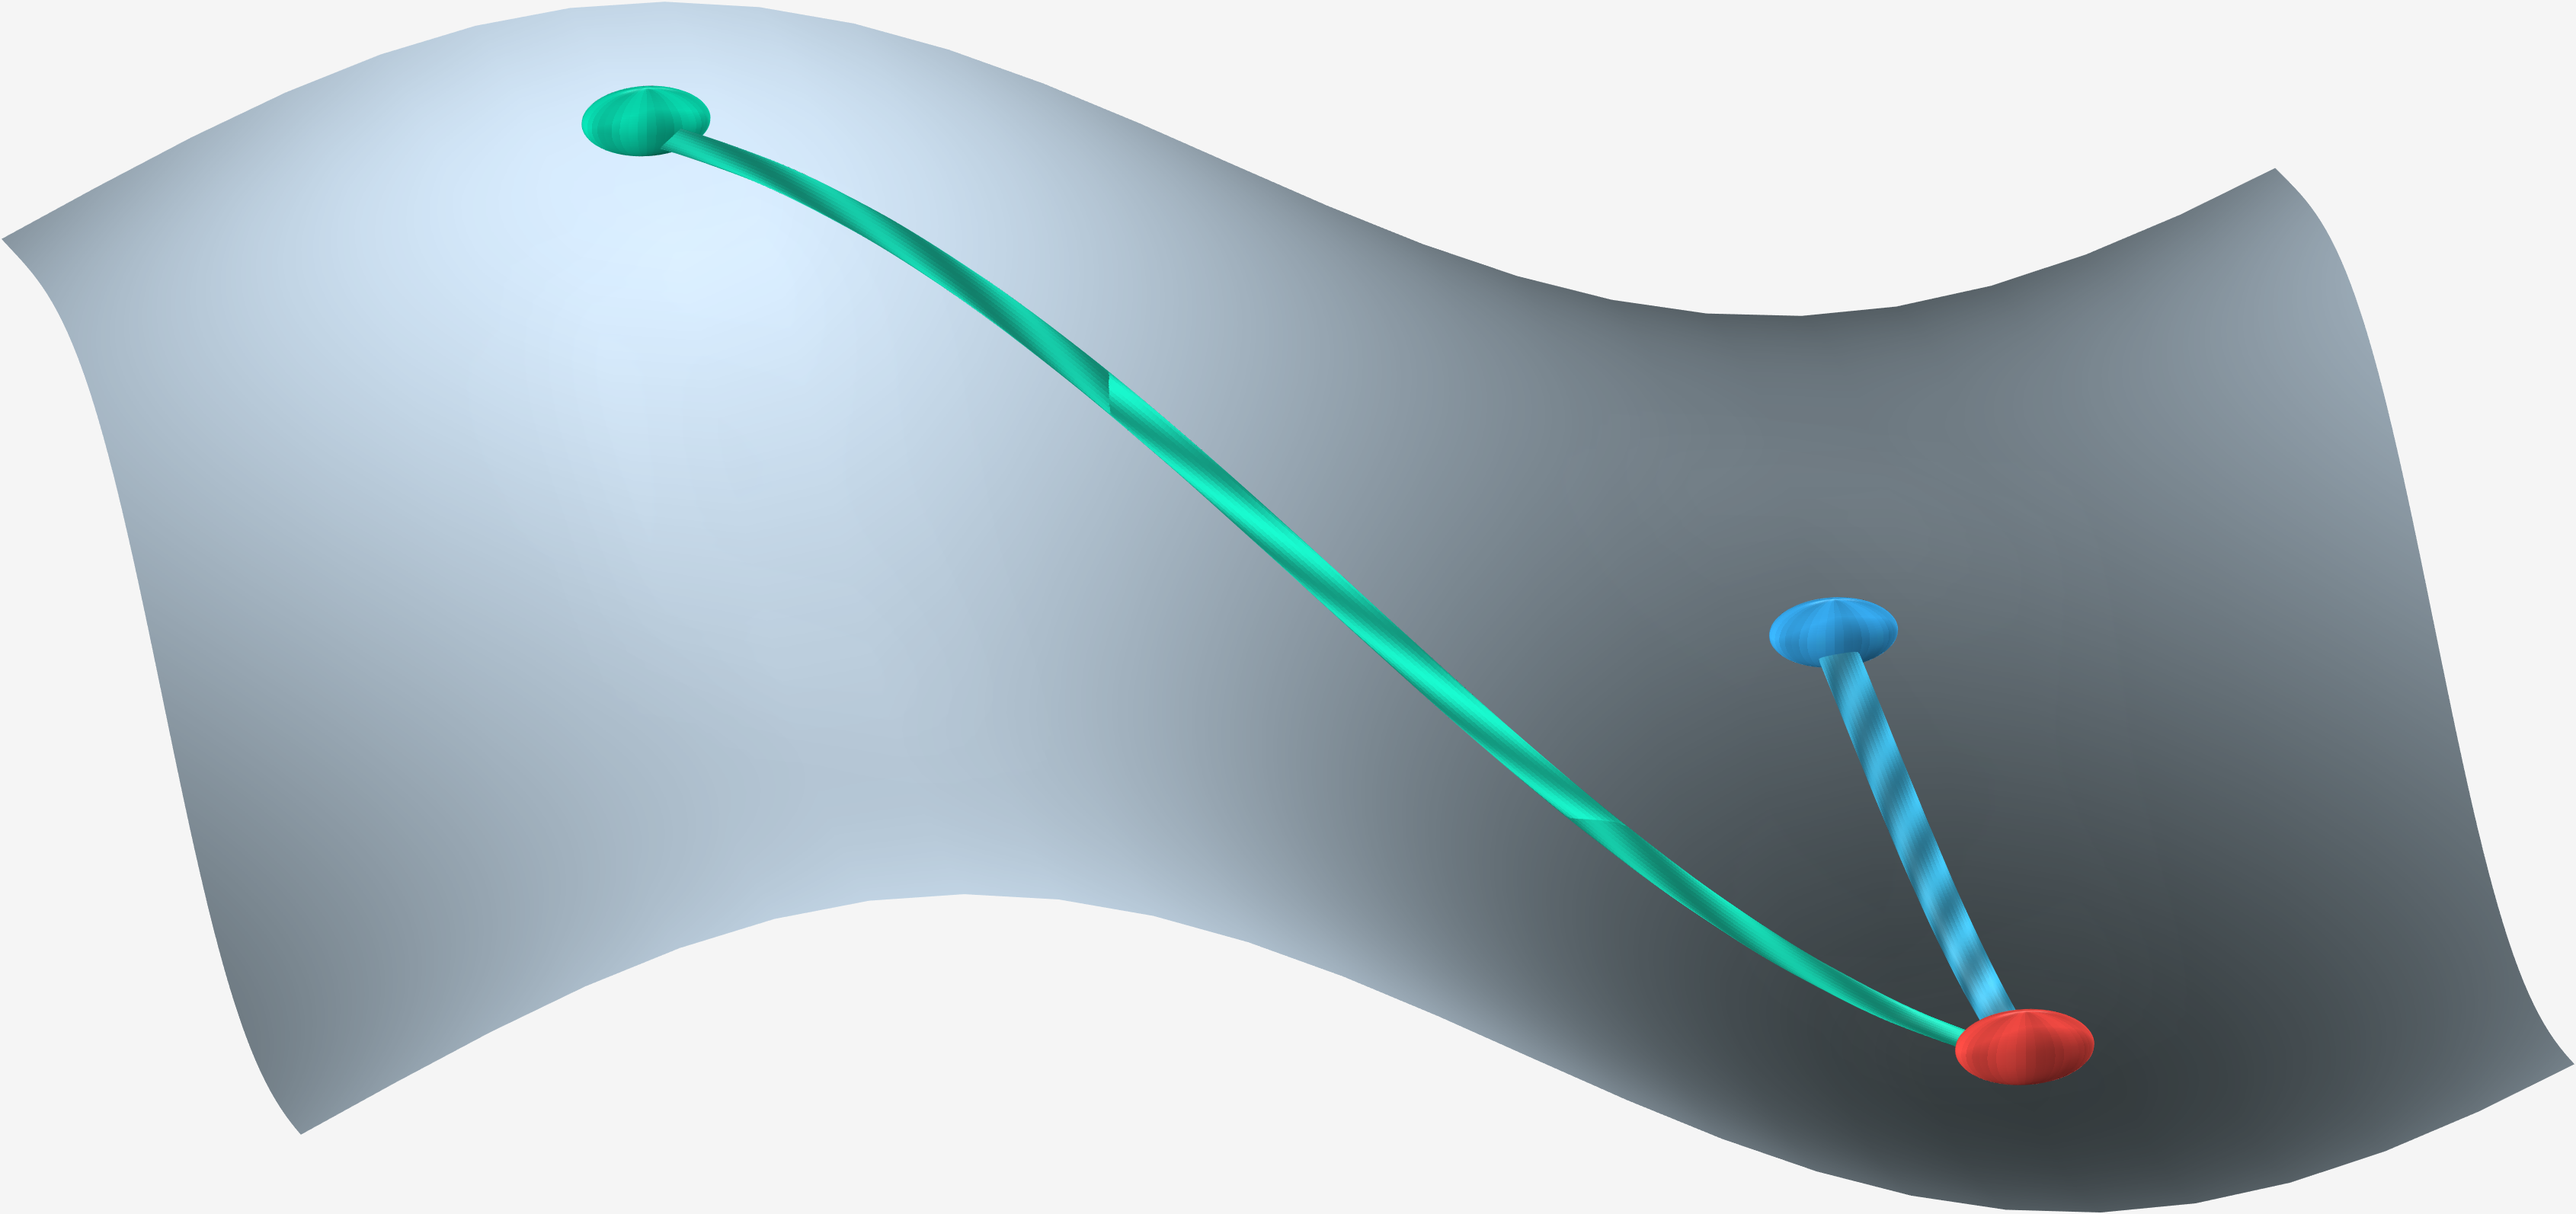
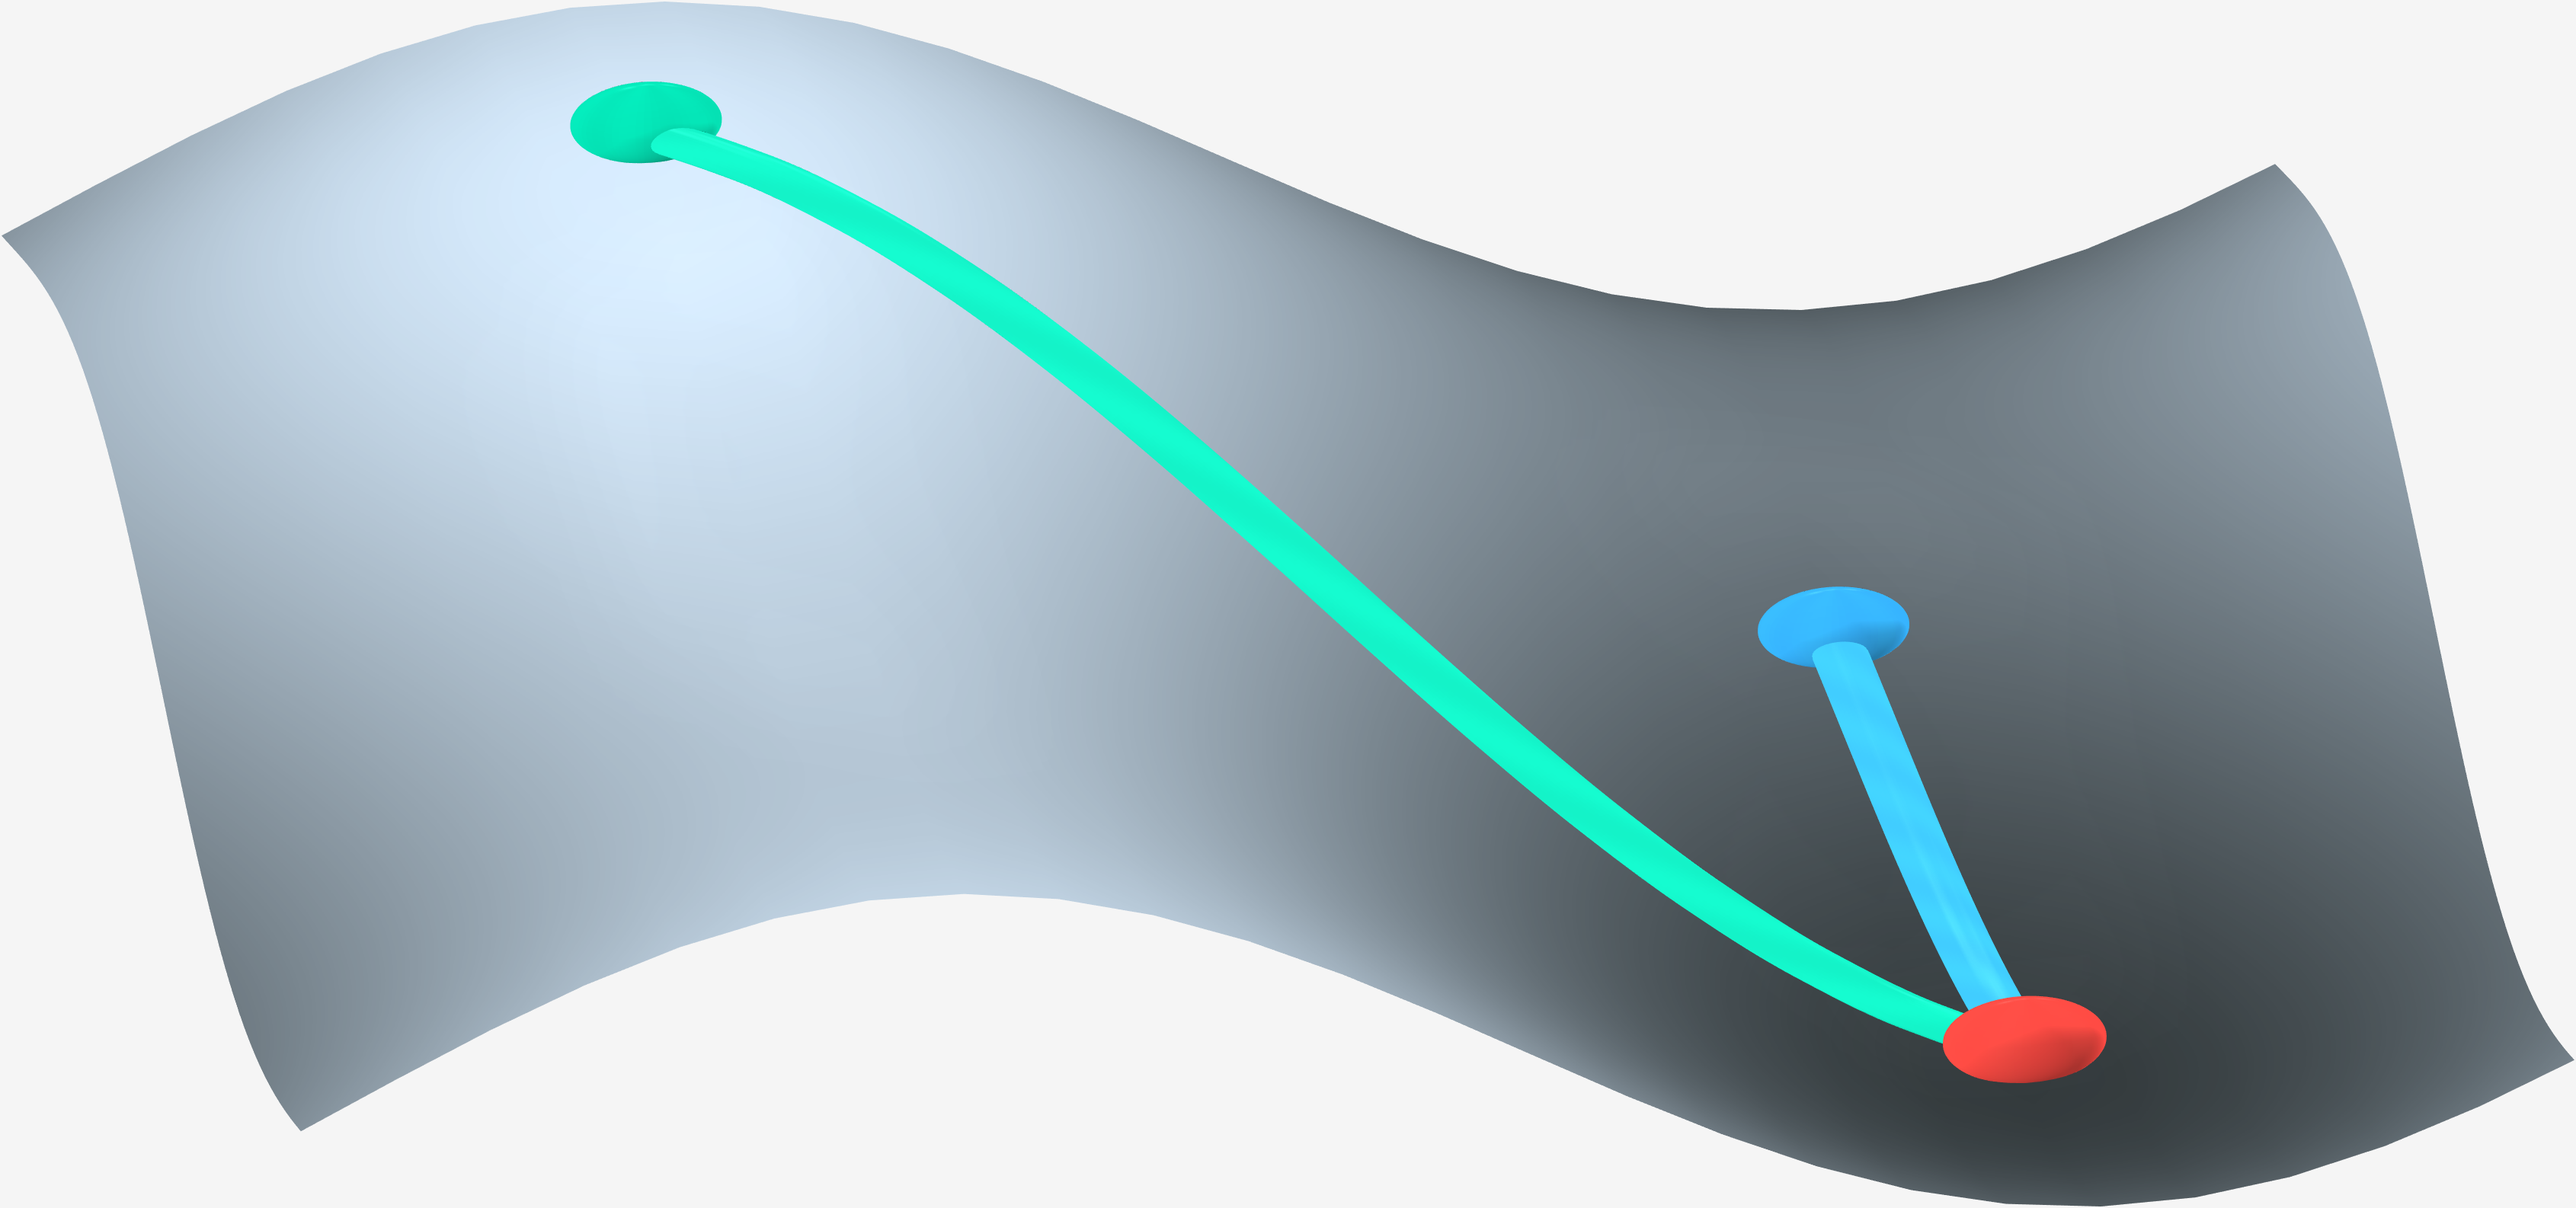
v1

diff --git a/PEL3D.m b/PEL3D.m
@@ -5,7 +5,7 @@ clear;
 random_mode = "load"; % "generate" or "load"
 view_mode = "default"; % "default" or "z_axis"
 z_rotation_deg = -150; % rotate camera around z axis (azimuth)
-topdown_tilt_deg = 25; % increase elevation for a more top-down view
+topdown_tilt_deg = 10; % increase elevation for a more top-down view
 random_param_file = "PEL3D_random_params.mat";
 pad_left = 50;
 pad_right = 25;
@@ -136,8 +136,8 @@ trace_lift = 0.012 * z_span;
 marker_lift = 0.018 * z_span;
 trace_lift = 0.050 * z_span;
 marker_lift = 0.070 * z_span;
-rope_radius = 0.22;
-ball_radius = 0.68;
+rope_radius = 0.30;
+ball_radius = 0.80;
 
 % Create two optimization traces on the surface
 n_trace = 420;
@@ -174,29 +174,52 @@ add_textured_ball(ax, [min_pt(1), min_pt(2), min_z + marker_lift], 1.08 * ball_r
 hold(ax, "off");
 
 function add_textured_rope(ax, path_xyz, radius, base_color)
-% Build a tube around a 3D path with subtle braided texture.
-n_sections = 26;
+% Build a tube around a 3D path with bright, clean texture.
+n_sections = 40;
 theta = linspace(0, 2*pi, n_sections + 1);
 ct = cos(theta);
 st = sin(theta);
 n_pts = size(path_xyz, 1);
 
-dp = gradient(path_xyz);
+dp = zeros(n_pts, 3);
+dp(1, :) = path_xyz(2, :) - path_xyz(1, :);
+dp(end, :) = path_xyz(end, :) - path_xyz(end - 1, :);
+dp(2:end-1, :) = 0.5 * (path_xyz(3:end, :) - path_xyz(1:end-2, :));
 tangent = dp ./ max(vecnorm(dp, 2, 2), 1e-9);
 normal = zeros(n_pts, 3);
 binormal = zeros(n_pts, 3);
-for i = 1:n_pts
-    ref = [0 0 1];
-    if abs(dot(tangent(i, :), ref)) > 0.92
-        ref = [0 1 0];
+
+ref = [0 0 1];
+if abs(dot(tangent(1, :), ref)) > 0.92
+    ref = [0 1 0];
+end
+normal(1, :) = cross(tangent(1, :), ref);
+normal(1, :) = normal(1, :) ./ max(norm(normal(1, :)), 1e-9);
+
+for i = 2:n_pts
+    v_prev = tangent(i - 1, :);
+    v_cur = tangent(i, :);
+    rot_axis = cross(v_prev, v_cur);
+    sin_a = norm(rot_axis);
+    cos_a = max(min(dot(v_prev, v_cur), 1), -1);
+    n_prev = normal(i - 1, :);
+    if sin_a < 1e-10
+        n_rot = n_prev;
+    else
+        k = rot_axis / sin_a;
+        ang = atan2(sin_a, cos_a);
+        n_rot = n_prev * cos(ang) + cross(k, n_prev) * sin(ang) + ...
+            k * dot(k, n_prev) * (1 - cos(ang));
     end
-    n_vec = cross(tangent(i, :), ref);
-    n_vec = n_vec ./ max(norm(n_vec), 1e-9);
-    b_vec = cross(tangent(i, :), n_vec);
+    n_rot = n_rot ./ max(norm(n_rot), 1e-9);
+    b_vec = cross(v_cur, n_rot);
     b_vec = b_vec ./ max(norm(b_vec), 1e-9);
-    normal(i, :) = n_vec;
+    normal(i, :) = cross(b_vec, v_cur);
+    normal(i, :) = normal(i, :) ./ max(norm(normal(i, :)), 1e-9);
     binormal(i, :) = b_vec;
 end
+binormal(1, :) = cross(tangent(1, :), normal(1, :));
+binormal(1, :) = binormal(1, :) ./ max(norm(binormal(1, :)), 1e-9);
 
 X = path_xyz(:, 1) + radius * (normal(:, 1) * ct + binormal(:, 1) * st);
 Y = path_xyz(:, 2) + radius * (normal(:, 2) * ct + binormal(:, 2) * st);
@@ -206,47 +229,49 @@ arc_s = [0; cumsum(vecnorm(diff(path_xyz, 1, 1), 2, 2))];
 arc_s = arc_s / max(arc_s(end), 1e-9);
 twist_u = repmat(arc_s, 1, n_sections + 1);
 twist_v = repmat(theta / (2*pi), n_pts, 1);
-braid = 0.80 + 0.20 * sin(2*pi * (7.0 * twist_u + 2.0 * twist_v));
-round_shade = repmat(0.90 + 0.10 * cos(theta - pi/5), n_pts, 1);
-texture_gain = braid .* round_shade;
+braid = 1.00 + 0.02 * sin(2*pi * (7.0 * twist_u + 2.0 * twist_v));
+texture_gain = max(0.98, braid);
 
 C = zeros(n_pts, n_sections + 1, 3);
 for k = 1:3
-    C(:, :, k) = min(1, max(0, base_color(k) .* texture_gain + 0.04));
+    C(:, :, k) = min(1, max(0, base_color(k) .* texture_gain + 0.02));
 end
 
 surf(ax, X, Y, Z, C, ...
     "FaceColor", "texturemap", ...
     "EdgeColor", "none", ...
     "FaceLighting", "gouraud", ...
-    "SpecularStrength", 0.12, ...
-    "DiffuseStrength", 0.84, ...
-    "AmbientStrength", 0.40);
+    "SpecularStrength", 0.08, ...
+    "SpecularExponent", 18, ...
+    "DiffuseStrength", 0.72, ...
+    "AmbientStrength", 0.62);
 end
 
 function add_textured_ball(ax, center_xyz, radius, base_color)
-% Draw a textured sphere marker with soft micro-variation.
-res = 42;
+% Draw a clean sphere marker with gentle bright texture.
+res = 56;
 [sx, sy, sz] = sphere(res);
 X = center_xyz(1) + radius * sx;
 Y = center_xyz(2) + radius * sy;
 Z = center_xyz(3) + radius * sz;
 
 phi = atan2(sy, sx);
-micro = 0.90 + 0.10 * sin(6 * phi) .* (0.75 + 0.25 * cos(5 * sz));
-rim = 0.92 + 0.08 * (1 - sz.^2);
-texture_gain = micro .* rim;
+micro = 1.00 + 0.015 * sin(6 * phi) .* (0.85 + 0.15 * cos(5 * sz));
+light_dir = 0.55 * sx + 0.15 * sy + 0.82 * sz;
+hemi = 0.99 + 0.04 * max(light_dir, 0);
+texture_gain = max(0.98, micro .* hemi);
 
 C = zeros(size(sx, 1), size(sx, 2), 3);
 for k = 1:3
-    C(:, :, k) = min(1, max(0, base_color(k) .* texture_gain + 0.03));
+    C(:, :, k) = min(1, max(0, base_color(k) .* texture_gain + 0.02));
 end
 
 surf(ax, X, Y, Z, C, ...
     "FaceColor", "texturemap", ...
     "EdgeColor", "none", ...
     "FaceLighting", "gouraud", ...
-    "SpecularStrength", 0.18, ...
-    "DiffuseStrength", 0.80, ...
-    "AmbientStrength", 0.44);
+    "SpecularStrength", 0.10, ...
+    "SpecularExponent", 24, ...
+    "DiffuseStrength", 0.70, ...
+    "AmbientStrength", 0.66);
 end
